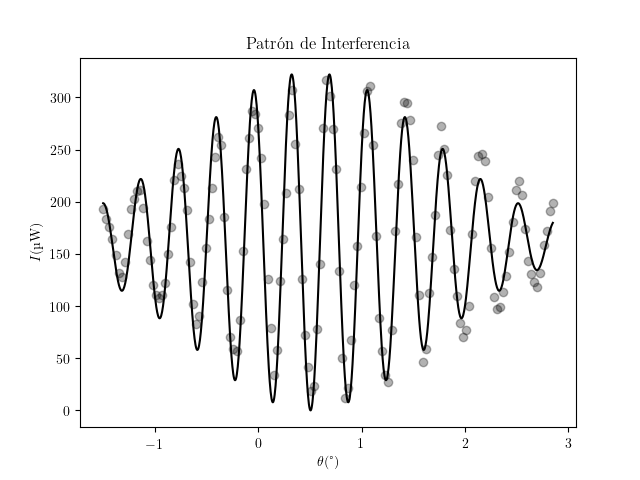
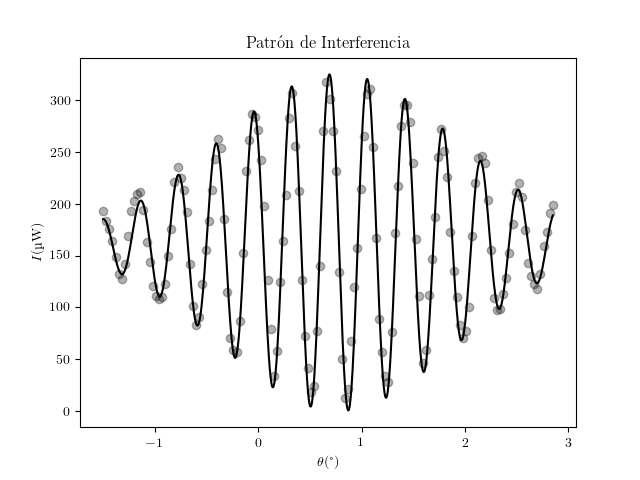
se agrega phi a interferencia

diff --git a/Laboratorio Avanzado/TBD/interferencia_2.py b/Laboratorio Avanzado/TBD/interferencia_2.py
@@ -6,14 +6,15 @@ plt.rc("text", usetex = True)
 plt.rc("text.latex", preamble = r"\usepackage[utf8]{inputenc} \usepackage{siunitx} \usepackage[version = 4]{mhchem} \usepackage{physics}")
 plt.rc("font", **{"family": "serif", "serif": ["Computer Modern"]})
 
-def I(angle, offset, I_0, w, q):
+def I(angle, offset, I_0, w, q, phi):
 	theta = angle-offset
-	return I_0*(1 + np.exp(-2*theta*theta/w)*np.cos(2*q*theta + np.pi))/2
+	return I_0*(1 + np.exp(-2*theta*theta/w)*np.cos(2*q*theta + phi))/2
 
-data = np.genfromtxt("interferencia.txt", usecols = (0, 1), encoding = "latin-1")
+data = np.genfromtxt("interferencia.txt", usecols = (0, 1))
 
 angles = np.linspace(np.min(data[:,0]),np.max(data[:,0]),1000)
-popt, pcov = curve_fit(I, data[:,0], data[:,1], p0 = [0.53, np.max(data[:,1]), 8, 8.7])
+popt, pcov = curve_fit(I, data[:,0], data[:,1], p0 = [0.53, np.max(data[:,1]), 8, 8.7, np.pi])
+print(popt)
 
 fig, ax = plt.subplots()
 ax.scatter(data[:,0], data[:,1], c = "k", alpha = 0.3)
